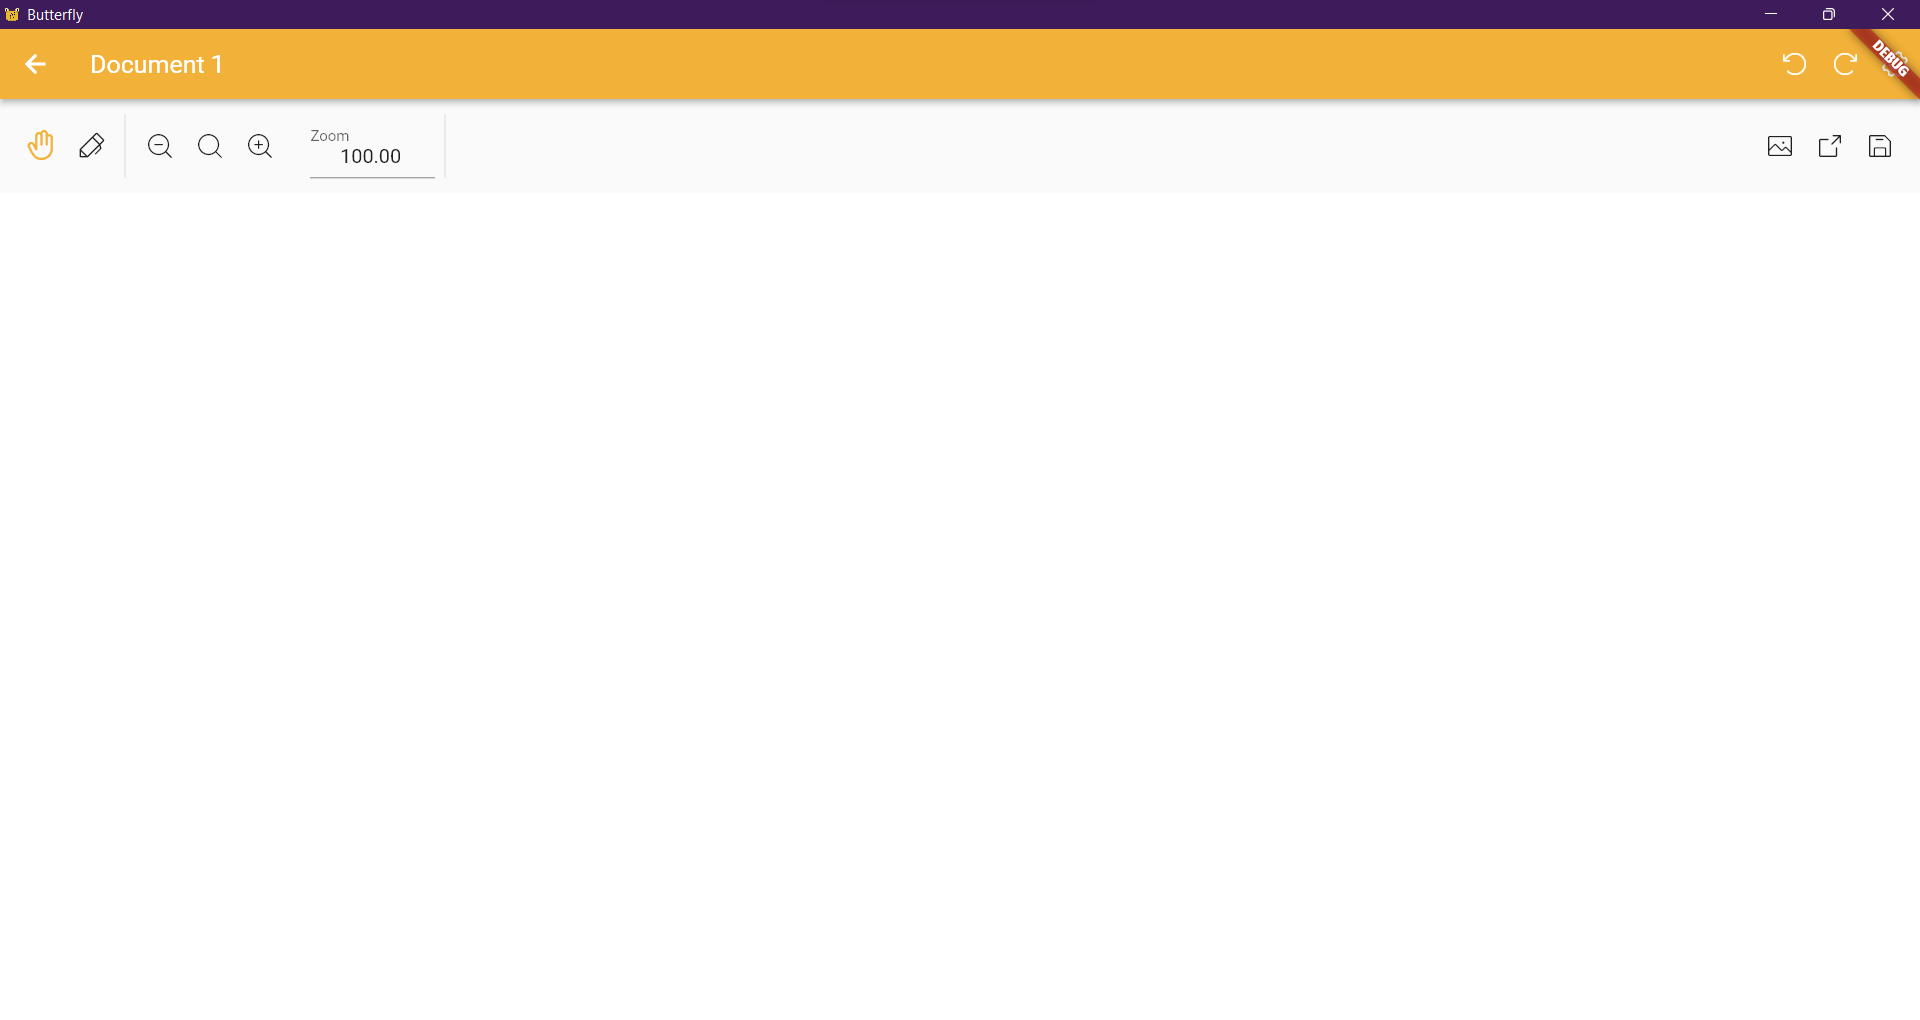
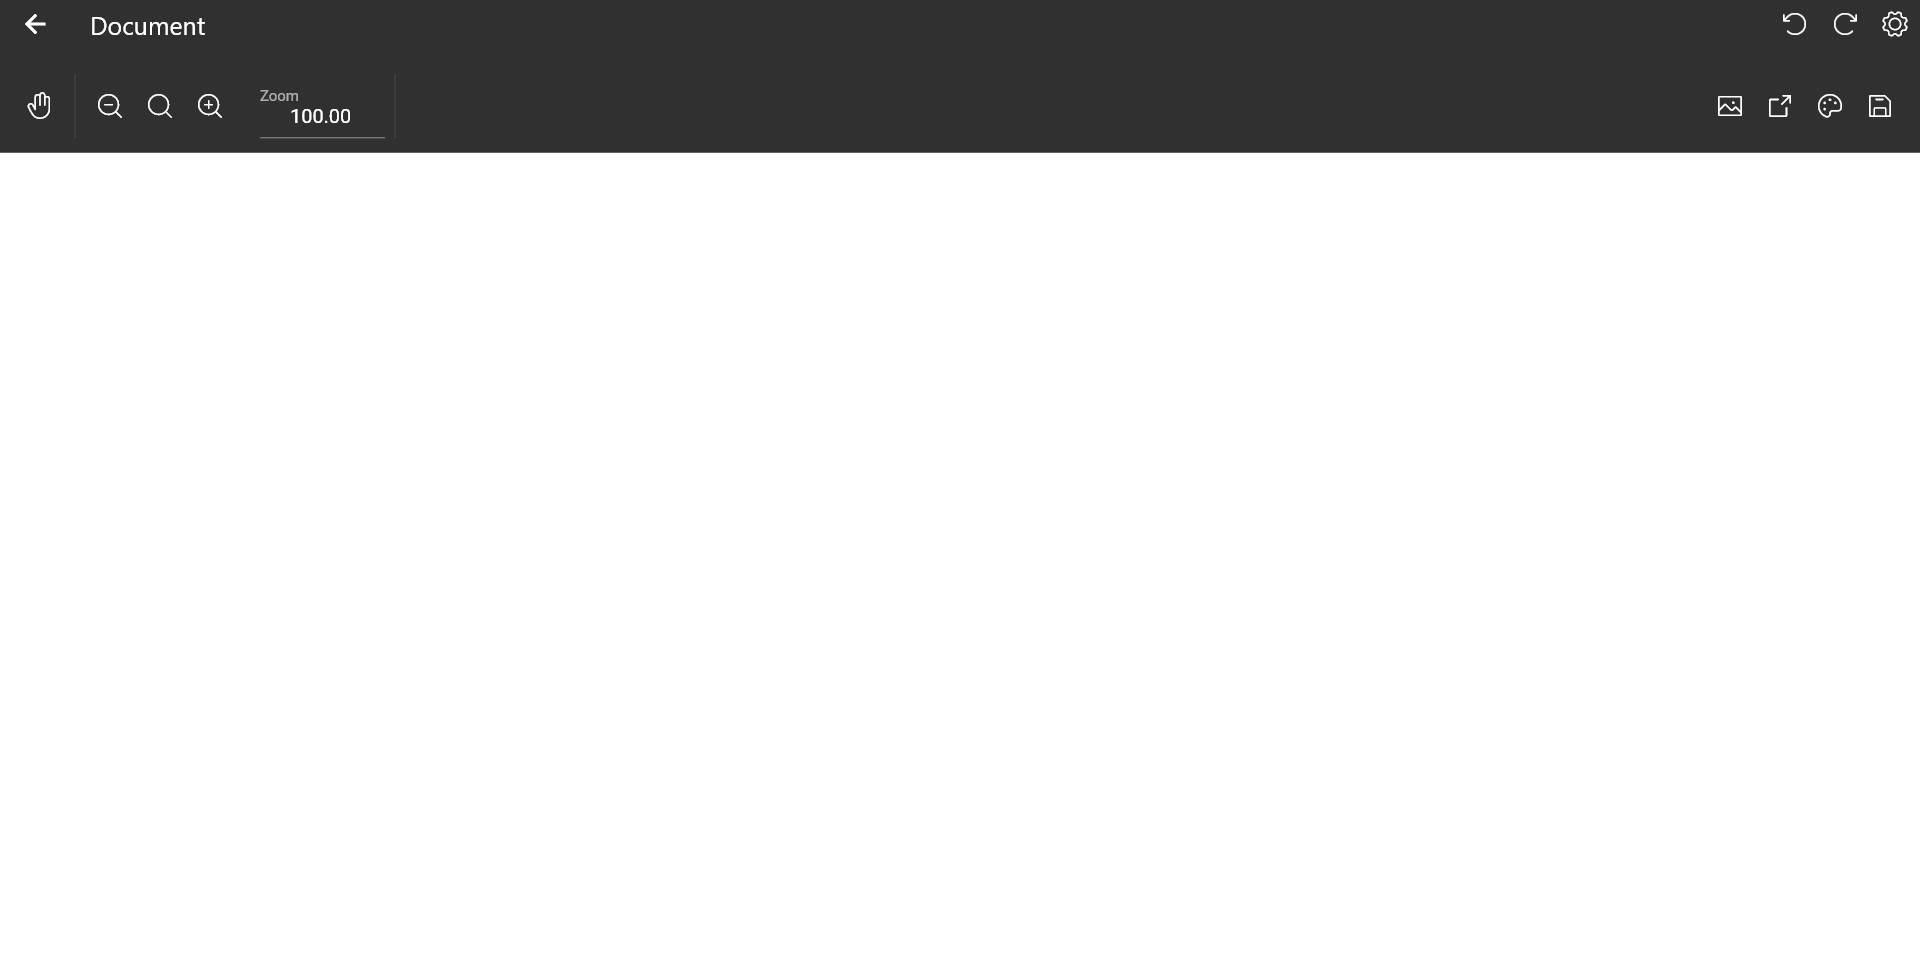
update docs to new design and add image painter to docs, add offset to image on painter

Changed region(s): [[0.0, 0.0, 1.0, 0.1837]]

diff --git a/app/lib/pad/view_painter.dart b/app/lib/pad/view_painter.dart
@@ -105,7 +105,7 @@ class ViewPainter extends CustomPainter {
           tp.paint(canvas, position);
         }
         if (element is ImageElement && images.containsKey(element)) {
-          canvas.drawImage(images[element]!, element.position, Paint()..strokeWidth = .05);
+          canvas.drawImage(images[element]!, element.position + offset, Paint()..strokeWidth = .05);
         }
       });
     canvas.restore();

diff --git a/docs/docs/painters/image.md b/docs/docs/painters/image.md
@@ -1,0 +1,12 @@
+---
+sidebar_label: Image
+sidebar_position: 3
+---
+
+# Image painter
+
+With this painter you can add image to your paper. Click on a position and select an image.
+
+## Configuration
+
+Currently nothing to configure
